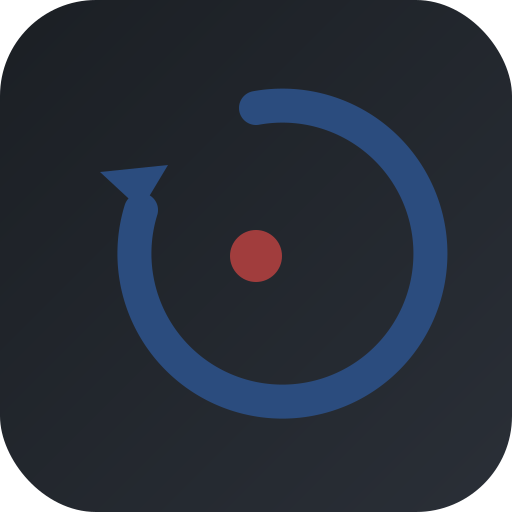
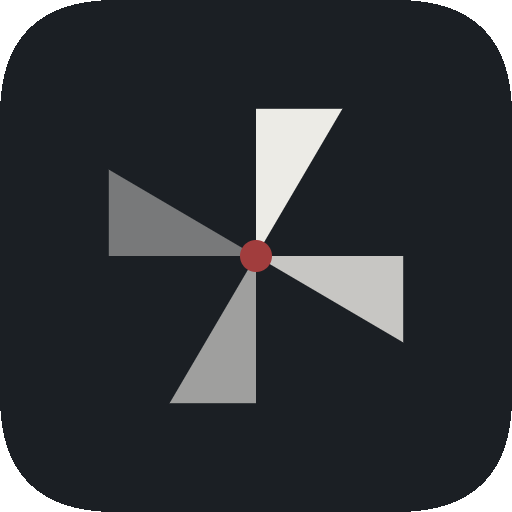
Updates

diff --git a/sw.js b/sw.js
@@ -1,1 +1,1 @@
-if(!self.define){let e,i={};const s=(s,n)=>(s=new URL(s+".js",n).href,i[s]||new Promise(i=>{if("document"in self){const e=document.createElement("script");e.src=s,e.onload=i,document.head.appendChild(e)}else e=s,importScripts(s),i()}).then(()=>{let e=i[s];if(!e)throw new Error(`Module ${s} didn’t register its module`);return e}));self.define=(n,r)=>{const t=e||("document"in self?document.currentScript.src:"")||location.href;if(i[t])return;let o={};const d=e=>s(e,t),c={module:{uri:t},exports:o,require:d};i[t]=Promise.all(n.map(e=>c[e]||d(e))).then(e=>(r(...e),o))}}define(["./workbox-9c191d2f"],function(e){"use strict";self.skipWaiting(),e.clientsClaim(),e.precacheAndRoute([{url:"registerSW.js",revision:"5beb11168c381b2de71c26d68c21b3cf"},{url:"index.html",revision:"8ac7e210fd820f3afddef09bbd2b6129"},{url:"assets/index-wEh3B8m7.js",revision:null},{url:"assets/index-tU3Pv4bi.css",revision:null},{url:"pwa-192x192.png",revision:"4f9ae630e0043f61c3d0e0bf9c50e1cc"},{url:"pwa-512x512.png",revision:"8d95544f7b8d2a735b4a323d4897e909"},{url:"manifest.webmanifest",revision:"00577297ba153d12dc231c8b00adb650"}],{}),e.cleanupOutdatedCaches(),e.registerRoute(new e.NavigationRoute(e.createHandlerBoundToURL("index.html")))});
+if(!self.define){let e,i={};const s=(s,n)=>(s=new URL(s+".js",n).href,i[s]||new Promise(i=>{if("document"in self){const e=document.createElement("script");e.src=s,e.onload=i,document.head.appendChild(e)}else e=s,importScripts(s),i()}).then(()=>{let e=i[s];if(!e)throw new Error(`Module ${s} didn’t register its module`);return e}));self.define=(n,r)=>{const t=e||("document"in self?document.currentScript.src:"")||location.href;if(i[t])return;let o={};const d=e=>s(e,t),c={module:{uri:t},exports:o,require:d};i[t]=Promise.all(n.map(e=>c[e]||d(e))).then(e=>(r(...e),o))}}define(["./workbox-9c191d2f"],function(e){"use strict";self.skipWaiting(),e.clientsClaim(),e.precacheAndRoute([{url:"registerSW.js",revision:"5beb11168c381b2de71c26d68c21b3cf"},{url:"index.html",revision:"8ac7e210fd820f3afddef09bbd2b6129"},{url:"assets/index-wEh3B8m7.js",revision:null},{url:"assets/index-tU3Pv4bi.css",revision:null},{url:"pwa-192x192.png",revision:"08f9b7e428729ac75de18a41074095f8"},{url:"pwa-512x512.png",revision:"cd35da855d20acf430c9792a4c23e0b0"},{url:"manifest.webmanifest",revision:"00577297ba153d12dc231c8b00adb650"}],{}),e.cleanupOutdatedCaches(),e.registerRoute(new e.NavigationRoute(e.createHandlerBoundToURL("index.html")))});